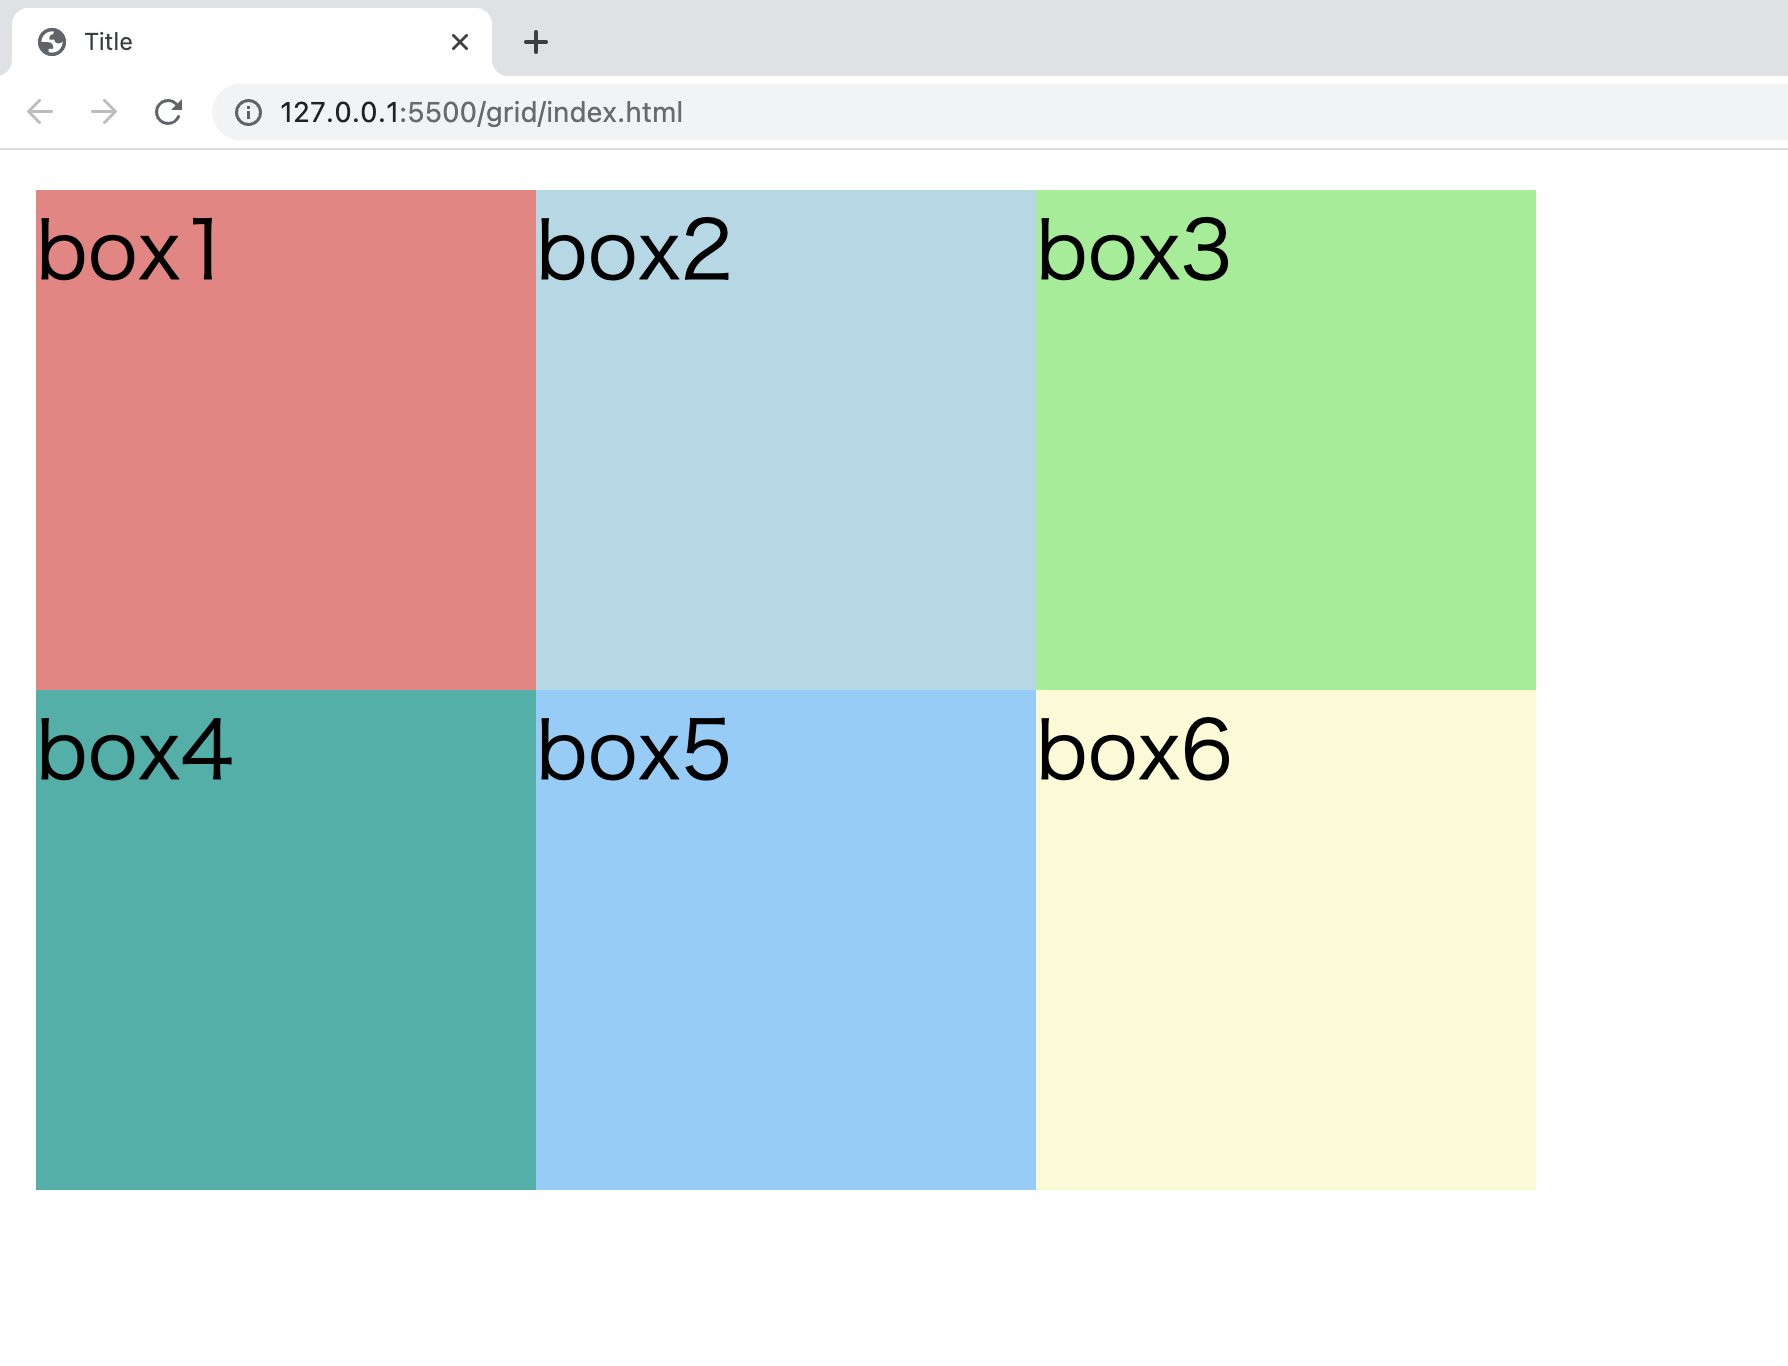
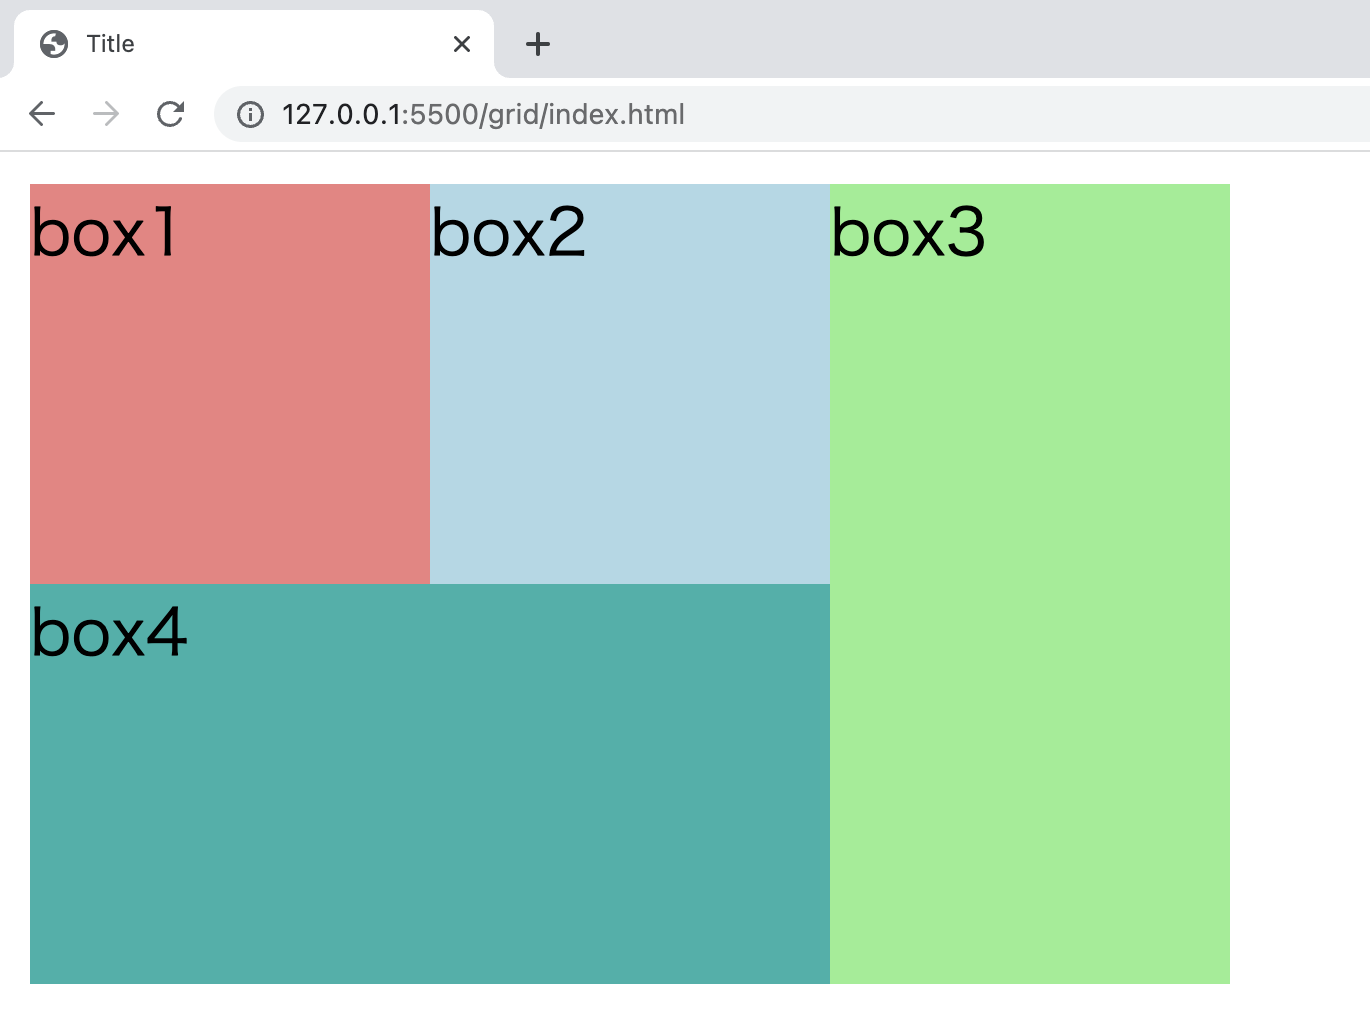
順番や文言の修正、floatの削除

diff --git a/docs/2-browser-apps/07-css-arrangement/index.md b/docs/2-browser-apps/07-css-arrangement/index.md
@@ -178,33 +178,6 @@ HTML の要素は、ブロックレベル要素とインライン要素に分類
 
 グリッドを利用するには、配置したい要素の**親要素**に `display: grid` を適用し、`grid-template-columns` プロパティで列の幅を、`grid-template-rows` プロパティで行の幅を指定します。
 
-以下のコードを試してみましょう。
-
-```html title="index.html"
-<body>
-  <div class="wrapper">
-    <div class="box1">box1</div>
-    <div class="box2">box2</div>
-    <div class="box3">box3</div>
-    <div class="box4">box4</div>
-    <div class="box5">box5</div>
-    <div class="box6">box6</div>
-  </div>
-</body>
-```
-
-```css title="style.css"
-.wrapper {
-  display: grid;
-  grid-template-columns: 100px 100px 100px;
-  grid-template-rows: 100px 100px;
-}
-```
-
-![display: gridを使用する](./grid.png)
-
-## `grid-column`, `grid-row` による調整
-
 `grid-column` や `grid-row` を使うと、開始ラインや終了ラインを指定して項目を配置することができます。
 
 以下のコードを試してみましょう。
@@ -221,67 +194,35 @@ HTML の要素は、ブロックレベル要素とインライン要素に分類
 ```
 
 ```css title="style.css"
+.wrapper {
+  display: grid;
+  grid-template-columns: 100px 100px 100px;
+  grid-template-rows: 100px 100px;
+}
+
 .box1 {
-  grid-column: 2 / 4;
-  grid-row: 1 / 2;
-}
-
-.box2 {
-  grid-column: 1;
-  grid-row: 1 / 3;
-}
-
-.box3 {
-  grid-row: 2;
-  grid-column: 3;
-}
-
-.box4 {
-  grid-row: 2;
-  grid-column: 2;
-}
-```
-
-![grid-column, grid-row による調整](./grid-column-row.png)
-
-## フロート
-
-フロートはかつて要素の横並びを表現するために使われていましたが、より簡単に横並びを表現できるフレックスボックスの登場によりあまり使われなくなりました。
-
-現在では、主にテキストの回り込みを表現するために使われます。
-
-```html title="index.html"
-<body>
-  <div class="box1">box1</div>
-  <div class="box2">box2</div>
-</body>
-```
-
-```css title="style.css"
-.box1 {
-  width: 150px;
-  height: 150px;
   background-color: lightcoral;
 }
 
 .box2 {
-  width: 200px;
-  height: 200px;
   background-color: lightblue;
+}
+
+.box3 {
+  grid-column: 3 / 4;
+  grid-row: 1 / 3;
+  background-color: lightgreen;
+}
+
+.box4 {
+  grid-column: 1 / 3;
+  grid-row: 2 / 3;
+  background-color: lightseagreen;
 }
 ```
 
-`float` プロパティを操作してみましょう。`float: left` ならば要素を上（画面のこちら側）に浮かべて左から配置していく、といった意味になります。
+![display: gridを使用する](./grid.png)
 
-上のコードの `box1` に `float: left` を指定するとどうなるか、試してみましょう。
-
-![float による調整](./float.png)
-
-`box1` が浮かんだことで空いたスペースには、すぐ下の `box2` が入り込んでいます。
-
-また、先述のように、`float` は現在では主にテキストが回り込むレイアウトを表現するために使われます。
-
-`float` によって下側に入り込んだ要素の中のテキストは、浮かんでいる要素を避けて回り込みます。`box2` の中に何か文章を書いて確かめてみましょう。
 
 ## position
 
@@ -303,12 +244,12 @@ HTML の要素は、ブロックレベル要素とインライン要素に分類
 
 ```css title="style.css"
 .box2 {
-    position: relative;
-    top: 50px;
-    left: 50px;
-    width: 200px;
-    height: 200px;
-    background-color: lightblue;
+  position: relative;
+  top: 50px;
+  left: 50px;
+  width: 200px;
+  height: 200px;
+  background-color: lightblue;
 }
 ```
 
@@ -332,8 +273,8 @@ HTML の要素は、ブロックレベル要素とインライン要素に分類
 
 `fixed` の場合はスクロールしても `box2`は同じ場所に留まっています。
 
-
 ### 親要素を基準にして子要素の位置を指定する
+
 `position` プロパティを使うと、親要素を基準にして子要素の位置を指定することができます。
 
 そのような場合、親要素に `relative` を、子要素に `absolute` を指定します。
@@ -375,7 +316,43 @@ HTML の要素は、ブロックレベル要素とインライン要素に分類
 
 デバイスの画面サイズに応じて適切なレイアウトで表示を行うデザインをレスポンシブデザインと呼びます。
 
-スマホ用、PC 用などと個別のサイトを作らずとも、同一の CSS であらゆるデバイスに対応することができます。
+スマートフォン用、PC 用などと個別のサイトを作らずとも、同一の CSS であらゆるデバイスに対応することができます。
+
+### メディアクエリ
+
+画面サイズによって異なるスタイルを適用させたい際にはメディアクエリを使います。
+
+スマートフォン等でもサイトをデバイス本来の画面サイズで表示するために、`head` タグの中に以下を記述しましょう。
+
+```html title="index.html"
+<meta name="viewport" content="width=device-width, initial-scale=1.0" />
+```
+
+メディアクエリの基本的な形は `@media (条件) {条件が真の場合に適用されるスタイル}` のようになります。
+
+以下の例を試してみましょう。
+
+```html title="index.html"
+<body>
+  <div class="box1">box1</div>
+</body>
+```
+
+```css title="style.css"
+.box1 {
+  background-color: lightcoral;
+}
+
+@media (max-width: 800px) {
+  .box1 {
+    background-color: lightblue;
+  }
+}
+```
+
+ウインドウの幅を変えてみると要素はどのようになるか、試してみましょう。
+
+<video src={mediaQuery} controls />
 
 ### パーセント指定
 
@@ -438,43 +415,9 @@ HTML の要素は、ブロックレベル要素とインライン要素に分類
   width: 80%;
 }
 ```
+
 ウインドウの幅を変えてみると要素の幅はどのようになるか、試してみましょう。
 
 <video src={maxMinWidth} controls />
-
-### メディアクエリ
-
-画面サイズによって異なるスタイルを適用させたい際にはメディアクエリを使います。
-
-まずメディアクエリを使う準備として、`head` タグの中に以下を記述しましょう。
-
-```html title="index.html"
-<meta name="viewport" content="width=device-width, initial-scale=1.0" />
-```
-
-メディアクエリの基本的な形は `@media (条件) {条件が真の場合に適用されるスタイル}` のようになります。
-
-以下の例を試してみましょう。
-
-```html title="index.html"
-<body>
-  <div class="box1">box1</div>
-</body>
-```
-
-```css title="style.css"
-.box1 {
-  background-color: lightcoral;
-}
-
-@media (max-width: 800px) {
-  .box1 {
-    background-color: lightblue;
-  }
-}
-```
-ウインドウの幅を変えてみると要素はどのようになるか、試してみましょう。
-
-<video src={mediaQuery} controls />
 
 
